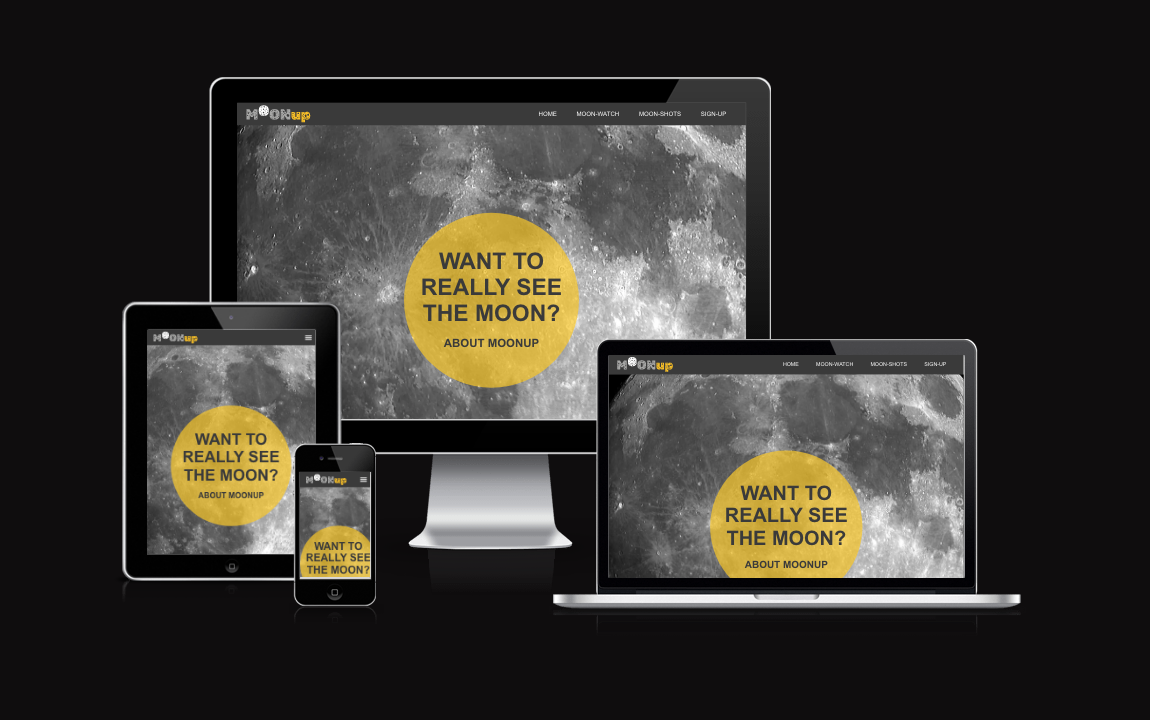
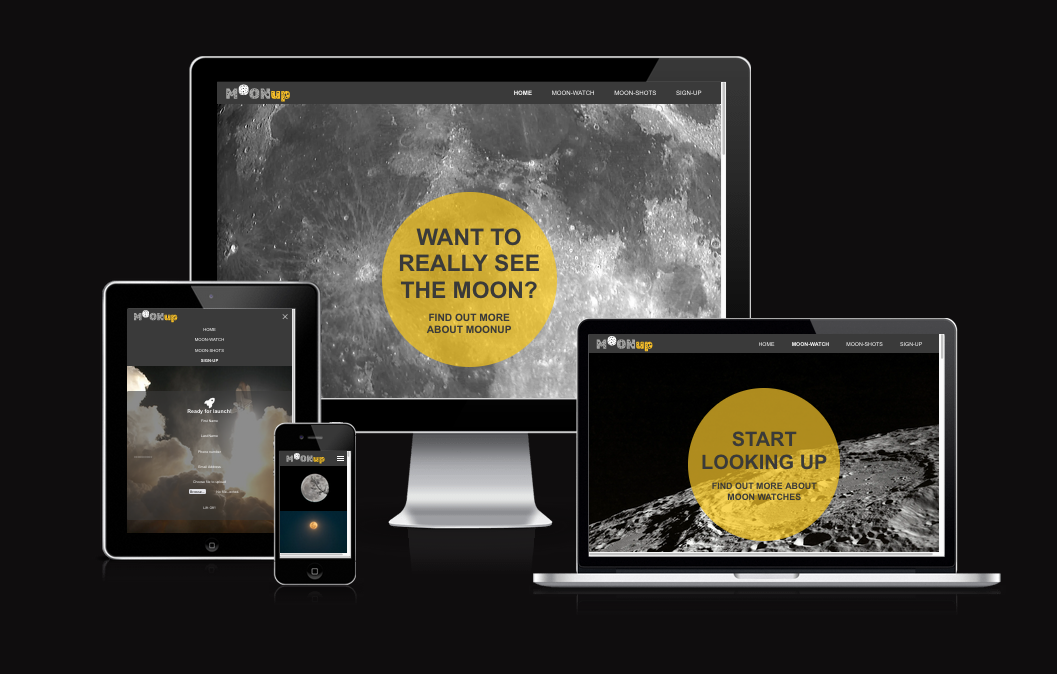
fix page link in moon-watch section, add more detail to README.md, change AM I Responsive image

diff --git a/moon-watch.html b/moon-watch.html
@@ -278,7 +278,7 @@
             </div>
         </div>
     </section>
-    <footer>
+    <footer id="socials">
         <ul class="social-networks">
             <li>
                 <a href="https://www.facebook.com/profile.php?id=100084787434120" target="_blank" rel="noopener"

diff --git a/README.md b/README.md
@@ -215,6 +215,9 @@ Viewed using Chrome on iMac.
 
 ![font smoothing](readme-images/font-smoothing-chrome.png)
 
+* the webp format doesn't work on older verions of MacOs/Safari.
+
+
 <br>
 <br>
 <br>
